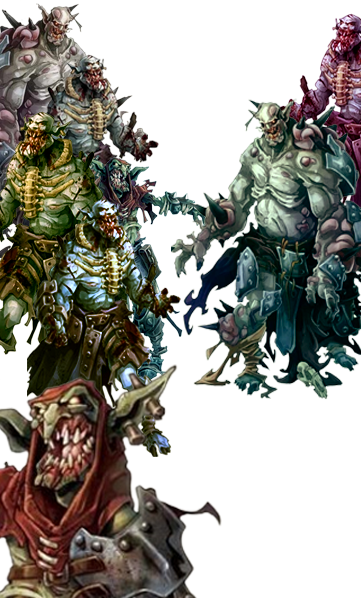
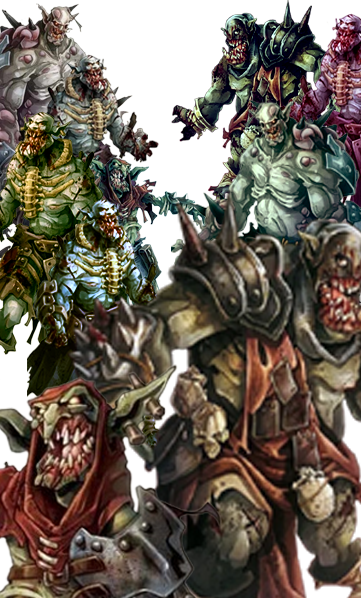
included missing images, How-To Modal, and some clearn up

diff --git a/scripts/setbackground.js b/scripts/setbackground.js
@@ -7,7 +7,7 @@ export const setBackground = (threat, type) => {
         BP
             - Walkers, Walker Activation, Runners, Runner Activation, Fatties, Fatty Activation, Double-Spawn, Necro, Abom.
         GH
-            - Orc Walker, Orc Runners, Orc Fatties (missing), Orc Necro (missing), Orc Abom (missing)
+            - Orc Walker, Orc Runners, Orc Fatties, Orc Necro, Orc Abom
         WB
             - Wolves - Wolf Abom
         NR
@@ -74,7 +74,6 @@ export const setBackground = (threat, type) => {
         // GH
         case "enter the horde":
             image = `url('./assets/gh_enterthehorde-removebg.png')`;
-            posX = '-10px';
             posY = '150px';
             break;
         case "orc walker":
@@ -88,23 +87,34 @@ export const setBackground = (threat, type) => {
             posY = '190px';
             break;
         case "orc fatty":
-            //NOTE: need image
-            image = `url('')`;
-            posX = '-150px';
+            image = `url('./assets/gh_fatty-removebg.png')`;
+            posX = '-60px';
             posY = '170px';
             break;
         case "orc necromancer":
-            //NOTE: need image
-            image = `url('./assets/')`;
-            posX = '120px';
+            image = `url('./assets/gh_necro-removebg.png')`;
+            posX = '-100px';
             posY = '150px';
             break;
         case "orc abomination":
-            //NOTE: need image
-            image = `url('./assets/')`;
-            posX = '-80px';
-            posY = '100px';
+            image = `url('./assets/gh-abom-removebg.png')`;
+            posX = '-50px';
+            posY = '150px';
             size = '140%';
+            break;
+            case "orc walker activation":
+            image = `url('./assets/gh_walkerActivate-removebg.png')`;
+            posX = '100';
+            posY = '50px';
+            break;
+        case "orc runner activation":
+            image = `url('./assets/gh_runnerActivate-removebg.png')`;
+            posX = '-60px';
+            posY = '150px';
+            break;
+        case "orc fatty activation":
+            image = `url('./assets/gh_fattyActivate-removebg.png')`;
+            posY = '200px';
             break;
         // WB
         case "wolvz":

diff --git a/index.html b/index.html
@@ -61,8 +61,47 @@
         </div>
     </div>
 
+    <!-- Modal -->
+    <div class="modal fade" id="exampleModal" tabindex="-1" aria-labelledby="exampleModalLabel" aria-hidden="true">
+    <div class="modal-dialog">
+    <div class="modal-content">
+        <div class="modal-header">
+        <h1 class="modal-title fs-5" id="exampleModalLabel">Spawn Deck Pull How-To:</h1>
+        <button type="button" class="btn-close" data-bs-dismiss="modal" aria-label="Close"></button>
+        </div>
+        <div class="modal-body">
+            <p>
+                First off, thanks for checking this out!
+                Secondly, please understand that this is mostly a prototype of what I'm developing. This was meant to get me thinking about how I want to develop a more robust version of this spawn deck. 
+            </p>
+            <p>
+                Real quick, how to use this: 
+                Simply click the buttons for the decks you wish to use for your play through. After selecting them, click the "Make Deck" button and it will shuffle all the cards together. 
+            </p>
+        <p>
+            Lastly, it defaults to the BLUE threat level, but you can select whichever throughout the game. Just click the face-down cards and your spawn will appear!
+        </p>
+        <p>
+            If you would like to clear out your created deck, simply click the "Reset Decks" button. You will need to re-select the desired decks afterwards.
+        </p>
+        <hr>
+        <p>
+            One last thing... it is known that this isn't 100% "clean". It is intended to be used primarily on phones. Any questions, please feel free to DM via BGG. I'm 42Cogs :)
+        </p>
+        </div>
+        <div class="modal-footer">
+        <button type="button" class="btn btn-secondary" data-bs-dismiss="modal">Close</button>
+        </div>
+    </div>
+    </div>
+</div>
+
 <footer>
-    <h3></h3>    
+    <h3></h3>
+    <!-- Button trigger modal -->
+    <button type="button" id="modal-btn" class="btn btn-secondary" data-bs-toggle="modal" data-bs-target="#exampleModal">
+        How-To:
+    </button>    
 </footer>
 
 

diff --git a/scripts/footerText.js b/scripts/footerText.js
@@ -2,7 +2,7 @@ export const lastCardDisplay = (no, threat) => {
     // let card = threat;
     // let value = no;
     let isIncluded = ['Fatty', 'Orc Fatty', 'Wolvz', 'Swarm of Ratz', 'Murder of Crow'];
-    let specialCase = ['Nothing', 'Double Spawn', 'Enter the Horde', 'Necromancer', 'Abomination', 'Walker Activation', 'Runner Activation', 'Fatty Activation', 'Wolfbomination', 'Orc Abomination', 'Tainted Abomination', 'Necromantic Dragon']
+    let specialCase = ['Nothing', 'Double Spawn', 'Enter the Horde', 'Necromancer', 'Abomination', 'Walker Activation', 'Runner Activation', 'Fatty Activation','Orc Walker Activation', 'Orc Runner Activation', 'Orc Fatty Activation', 'Wolfbomination', 'Orc Abomination', 'Tainted Abomination', 'Necromantic Dragon']
 
     console.log('Last Card: ', no, threat);
 

diff --git a/script.js b/script.js
@@ -19,6 +19,7 @@ const threatInput = document.getElementsByName('threat-level');
 const foot = document.querySelector('footer');
 const toastAlert = document.getElementById('toast-alert');
 const toastBody = document.getElementById('toast-body');
+const modalBtn = document.getElementById('modal-btn');
 
 // Card Links
 const bpCards = './sampleObjs/bp.json';
@@ -87,6 +88,10 @@ const readyDeck = () => {
         `;
         const toast = new bootstrap.Toast(toastAlert);
         toast.show();
+
+        if(gameDeck.length > 0) {
+            modalBtn.style = 'display: none';
+        }
     }
 
 }
